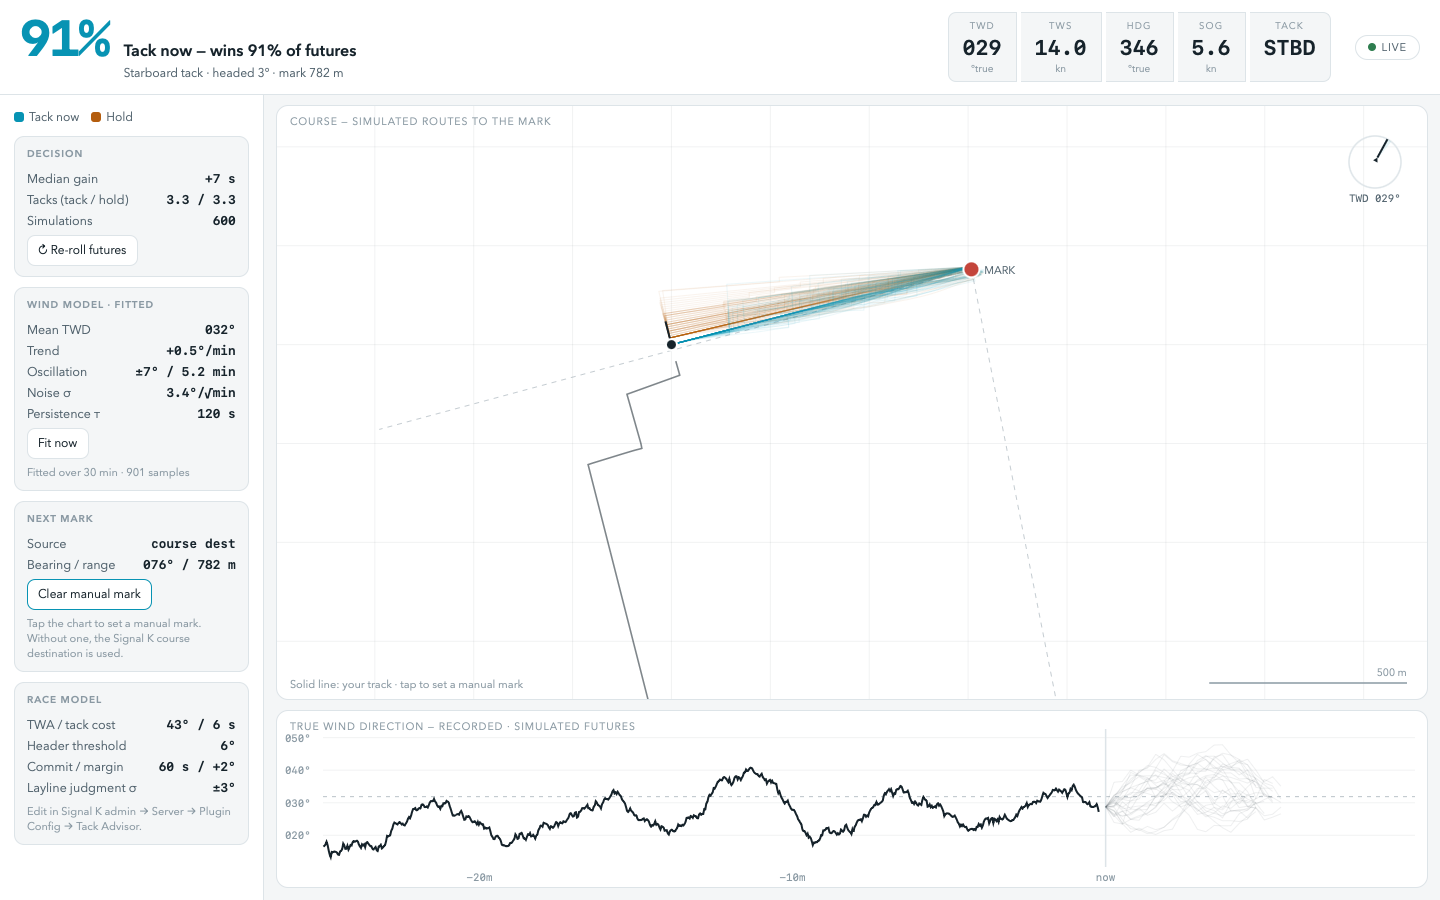
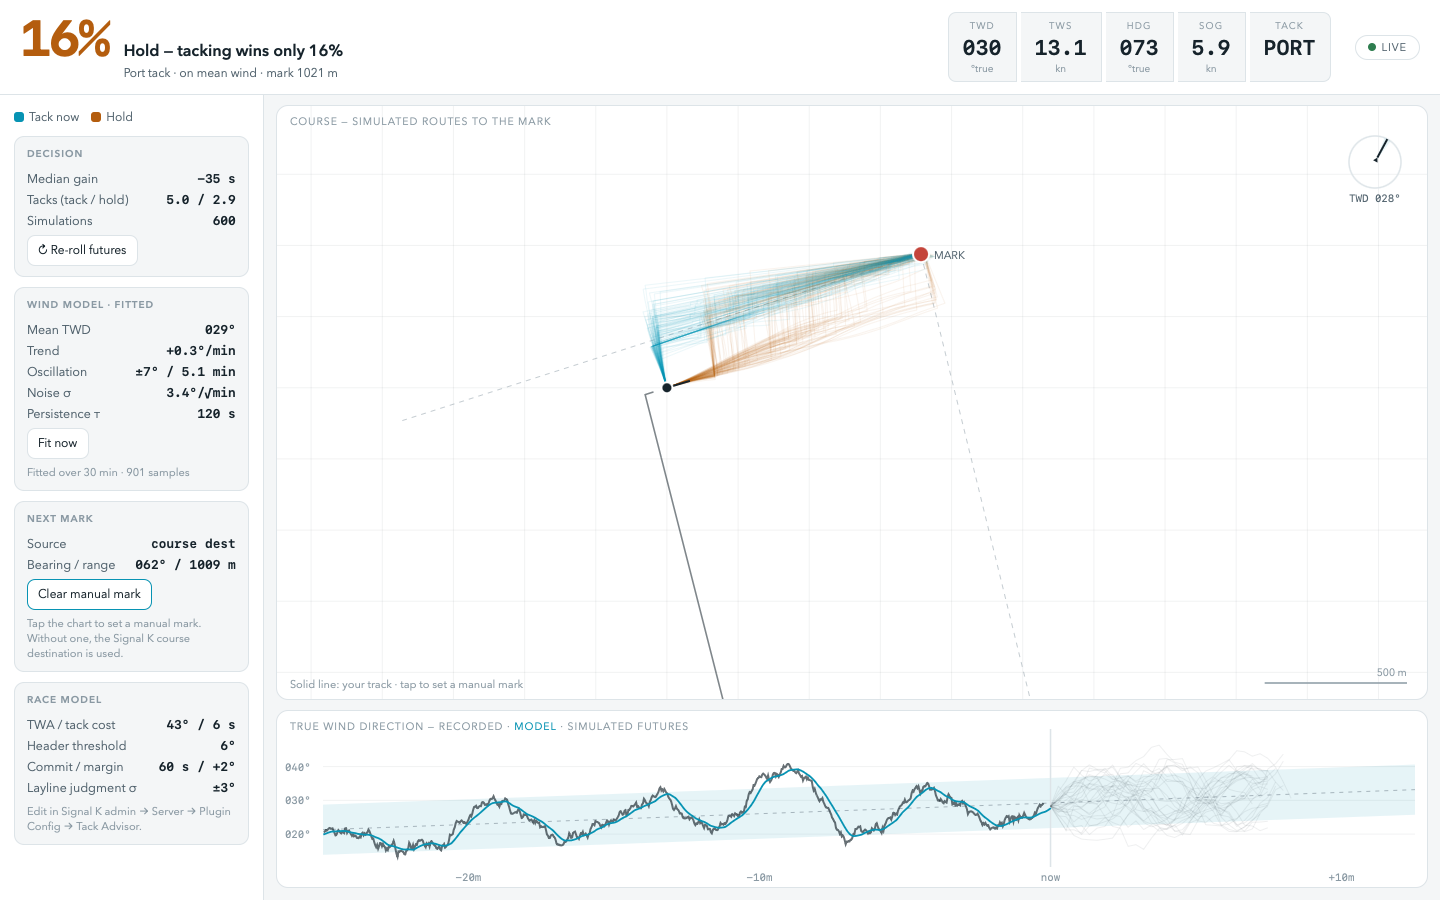
Model-over-history overlay; robust TWD fallbacks
Strip chart now shows the fitted model over the recorded breeze: the
smoothed wind the fit extracted, the sloped trend line, and the ±amp
oscillation envelope extended across past and future. Same envelope in
the standalone playground.

TWD source fallback chain per the Signal K spec and derived-data
behaviour: directionTrue → directionGround → heading + angleTrueGround
→ heading + angleTrueWater.

Claude-Session: https://claude.ai/code/session_01CVnHvrXJj6fyZ1D6HTCPdn

diff --git a/public/index.html b/public/index.html
@@ -186,7 +186,7 @@
     <div class="hint">Solid line: your track · tap to set a manual mark</div>
   </div>
   <div class="card">
-    <div class="cap">True wind direction — recorded · simulated futures</div>
+    <div class="cap">True wind direction — recorded · <span style="color:var(--tack)">model</span> · simulated futures</div>
     <canvas id="strip"></canvas>
     <div id="tip" class="mono"></div>
   </div>
@@ -391,9 +391,13 @@ function fitWind(hist, windowMin, tauDefault) {
   }
   const tail = v.slice(-8);
   const cur = tail.reduce((a, b) => a + b) / tail.length;
+  // smoothed wind (trend + slow residual, fast noise removed) for the chart overlay
+  const step = Math.max(1, Math.floor(n / 240));
+  const smoothPts = [];
+  for (let i = 0; i < n; i += step) smoothPts.push([t[i] * 60, mv + trend * (t[i] - mt) + smooth[i]]);  // [sec, deg]
   return {
     cur: norm360(cur), mean: norm360(cur + normAng(meanNow - cur)),
-    trend, amp, period, sigma, tau: tauDefault,
+    trend, amp, period, sigma, tau: tauDefault, smoothPts,
     windowUsed: Math.round((t[n - 1] - t[0])), samples: n, source: "fit",
   };
 }
@@ -799,11 +803,13 @@ function drawStrip() {
     prev = v;
   }
 
+  const trendAt = t => P.mean + P.trend * t;   // fitted line, extrapolated both ways
   let lo = Infinity, hi = -Infinity;
   const scan = v => { if (v < lo) lo = v; if (v > hi) hi = v; };
   past.forEach(p => scan(p[1]));
   if (results) results.winds.forEach(tr => tr.forEach(scan));
-  scan(P.mean - P.amp); scan(P.mean + P.amp);
+  scan(trendAt(T0) - P.amp); scan(trendAt(T0) + P.amp);
+  scan(trendAt(T1) - P.amp); scan(trendAt(T1) + P.amp);
   lo -= 3; hi += 3;
 
   const X = t => padL + (t - T0) / (T1 - T0) * (w - padL - padR);
@@ -823,8 +829,14 @@ function drawStrip() {
   }
   ctx.textAlign = "left";
 
-  ctx.setLineDash([4, 5]); ctx.strokeStyle = css("--ink-3"); ctx.globalAlpha = 0.6;
-  ctx.beginPath(); ctx.moveTo(padL, Y(P.mean)); ctx.lineTo(w - padR, Y(P.mean)); ctx.stroke();
+  // model overlay: oscillation envelope around the fitted trend, past and future
+  ctx.fillStyle = css("--accent-soft");
+  ctx.beginPath();
+  ctx.moveTo(X(T0), Y(trendAt(T0) + P.amp)); ctx.lineTo(X(T1), Y(trendAt(T1) + P.amp));
+  ctx.lineTo(X(T1), Y(trendAt(T1) - P.amp)); ctx.lineTo(X(T0), Y(trendAt(T0) - P.amp));
+  ctx.closePath(); ctx.fill();
+  ctx.setLineDash([4, 5]); ctx.strokeStyle = css("--ink-3"); ctx.globalAlpha = 0.7;
+  ctx.beginPath(); ctx.moveTo(X(T0), Y(trendAt(T0))); ctx.lineTo(X(T1), Y(trendAt(T1))); ctx.stroke();
   ctx.setLineDash([]); ctx.globalAlpha = 1;
 
   ctx.strokeStyle = css("--line"); ctx.lineWidth = 1.5;
@@ -840,9 +852,23 @@ function drawStrip() {
     ctx.globalAlpha = 1;
   }
   if (past.length > 1) {
-    ctx.strokeStyle = css("--ink"); ctx.lineWidth = 2;
+    ctx.strokeStyle = css("--ink"); ctx.lineWidth = 2; ctx.globalAlpha = 0.65;
     ctx.beginPath();
     past.forEach((p, i) => i ? ctx.lineTo(X(p[0]), Y(p[1])) : ctx.moveTo(X(p[0]), Y(p[1])));
+    ctx.stroke(); ctx.globalAlpha = 1;
+  }
+  // smoothed wind (what the fit extracted) over the raw trace, re-anchored in
+  // case the fit unwrapped into a different 360° branch than the raw drawing
+  if (fit && fit.smoothPts && fit.smoothPts.length > 1) {
+    const off = 360 * Math.round((fit.smoothPts[fit.smoothPts.length - 1][1] - P.cur) / 360);
+    ctx.strokeStyle = css("--tack"); ctx.lineWidth = 1.8;
+    ctx.beginPath();
+    let started = false;
+    for (const [ts, v] of fit.smoothPts) {
+      if (ts < T0) continue;
+      if (!started) { ctx.moveTo(X(ts), Y(v - off)); started = true; }
+      else ctx.lineTo(X(ts), Y(v - off));
+    }
     ctx.stroke();
   }
   stripC._map = { X, Y, T0, T1, padL, padR, past, P };

diff --git a/tack_now.html b/tack_now.html
@@ -581,11 +581,13 @@ function drawStrip() {
   const past = pastedWind || pastWind(P);
   const padL = 46, padR = 12, padT = 26, padB = 22;
 
+  const trendAt = t => P.mean + P.trend * t;
   let lo = Infinity, hi = -Infinity;
   const scan = v => { if (v < lo) lo = v; if (v > hi) hi = v; };
   past.forEach(p => scan(p[1]));
   if (results) results.winds.forEach(tr => tr.forEach(scan));
-  scan(P.mean - P.amp); scan(P.mean + P.amp);
+  scan(trendAt(STRIP_T0) - P.amp); scan(trendAt(STRIP_T0) + P.amp);
+  scan(trendAt(STRIP_T1) - P.amp); scan(trendAt(STRIP_T1) + P.amp);
   lo -= 3; hi += 3;
 
   const X = t => padL + (t - STRIP_T0) / (STRIP_T1 - STRIP_T0) * (w - padL - padR);
@@ -606,9 +608,14 @@ function drawStrip() {
   }
   ctx.textAlign = "left";
 
-  // mean-wind reference
-  ctx.setLineDash([4, 5]); ctx.strokeStyle = css("--ink-3"); ctx.globalAlpha = 0.6;
-  ctx.beginPath(); ctx.moveTo(padL, Y(P.mean)); ctx.lineTo(w - padR, Y(P.mean)); ctx.stroke();
+  // model overlay: oscillation envelope around the trend line, past and future
+  ctx.fillStyle = css("--accent-soft");
+  ctx.beginPath();
+  ctx.moveTo(X(STRIP_T0), Y(trendAt(STRIP_T0) + P.amp)); ctx.lineTo(X(STRIP_T1), Y(trendAt(STRIP_T1) + P.amp));
+  ctx.lineTo(X(STRIP_T1), Y(trendAt(STRIP_T1) - P.amp)); ctx.lineTo(X(STRIP_T0), Y(trendAt(STRIP_T0) - P.amp));
+  ctx.closePath(); ctx.fill();
+  ctx.setLineDash([4, 5]); ctx.strokeStyle = css("--ink-3"); ctx.globalAlpha = 0.7;
+  ctx.beginPath(); ctx.moveTo(X(STRIP_T0), Y(trendAt(STRIP_T0))); ctx.lineTo(X(STRIP_T1), Y(trendAt(STRIP_T1))); ctx.stroke();
   ctx.setLineDash([]); ctx.globalAlpha = 1;
 
   // "now" divider

diff --git a/index.js b/index.js
@@ -93,8 +93,15 @@ module.exports = function (app) {
 
   function pickTwd() {
     const fresh = (k, ms) => latest.stamp[k] != null && Date.now() - latest.stamp[k] < ms;
+    // Preference order: a published direction (ground wind on installs running
+    // derived-data's Ground Wind calc), then TWD computed from heading + true
+    // wind angle (ground- then water-referenced).
     if (fresh("twd", 10e3)) return latest.twd;
     if (fresh("twdGround", 10e3)) return latest.twdGround;
+    if (fresh("hdg", 10e3)) {
+      if (fresh("atg", 10e3)) return latest.hdg + latest.atg;
+      if (fresh("atw", 10e3)) return latest.hdg + latest.atw;
+    }
     return null;
   }
   function pickTws() {
@@ -132,6 +139,8 @@ module.exports = function (app) {
     try { manualMark = JSON.parse(fs.readFileSync(markFile(), "utf8")); } catch (e) { manualMark = null; }
     listen("environment.wind.directionTrue", (v) => { latest.twd = v; latest.stamp.twd = Date.now(); });
     listen("environment.wind.directionGround", (v) => { latest.twdGround = v; latest.stamp.twdGround = Date.now(); });
+    listen("environment.wind.angleTrueGround", (v) => { latest.atg = v; latest.stamp.atg = Date.now(); });
+    listen("environment.wind.angleTrueWater", (v) => { latest.atw = v; latest.stamp.atw = Date.now(); });
     listen("environment.wind.speedTrue", (v) => { latest.tws = v; latest.stamp.tws = Date.now(); });
     listen("environment.wind.speedOverGround", (v) => { latest.twsGround = v; latest.stamp.twsGround = Date.now(); });
     listen("navigation.position", (v) => { latest.pos = v; latest.stamp.pos = Date.now(); });

diff --git a/README.md b/README.md
@@ -27,7 +27,7 @@ Enable it in **Server → Plugin Config → Tack Advisor**, then open **Webapps 
 
 | Path | Use |
 |---|---|
-| `environment.wind.directionTrue` (or `directionGround`) | the wind model — enable the *derived-data* plugin if you only have apparent wind |
+| `environment.wind.directionTrue` (falls back to `directionGround`, then heading + `angleTrueGround` / `angleTrueWater`) | the wind model — enable the *derived-data* plugin's Ground Wind calc if you only have apparent wind |
 | `navigation.position` | boat position and track |
 | `navigation.headingTrue` (or COG) | current tack detection |
 | `navigation.speedOverGround` | live boat speed (optional) |